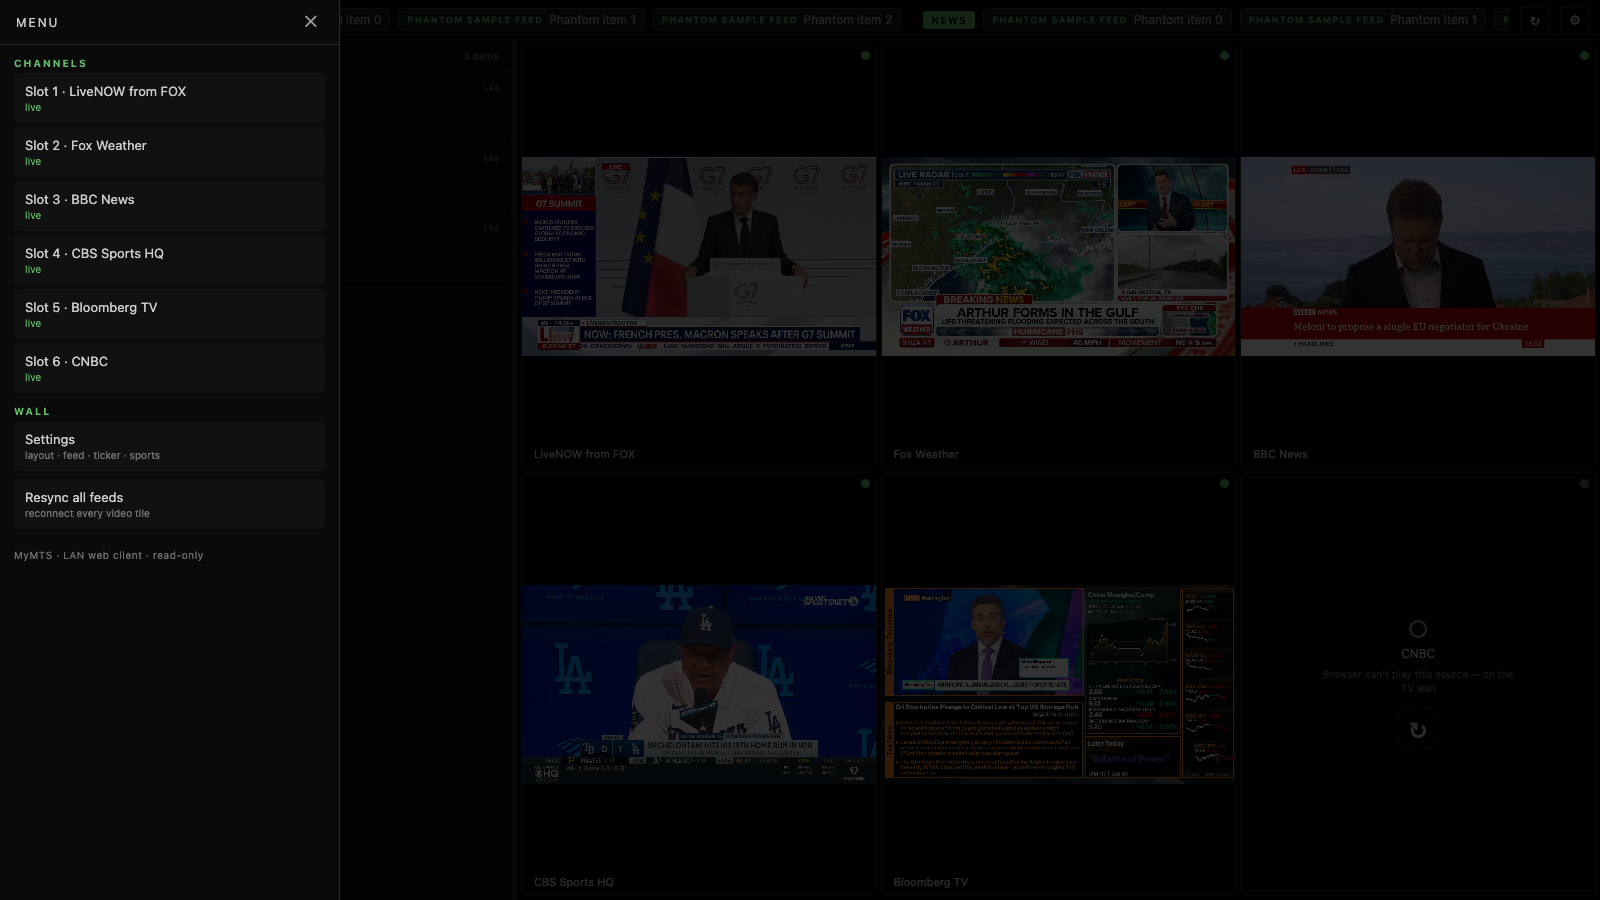
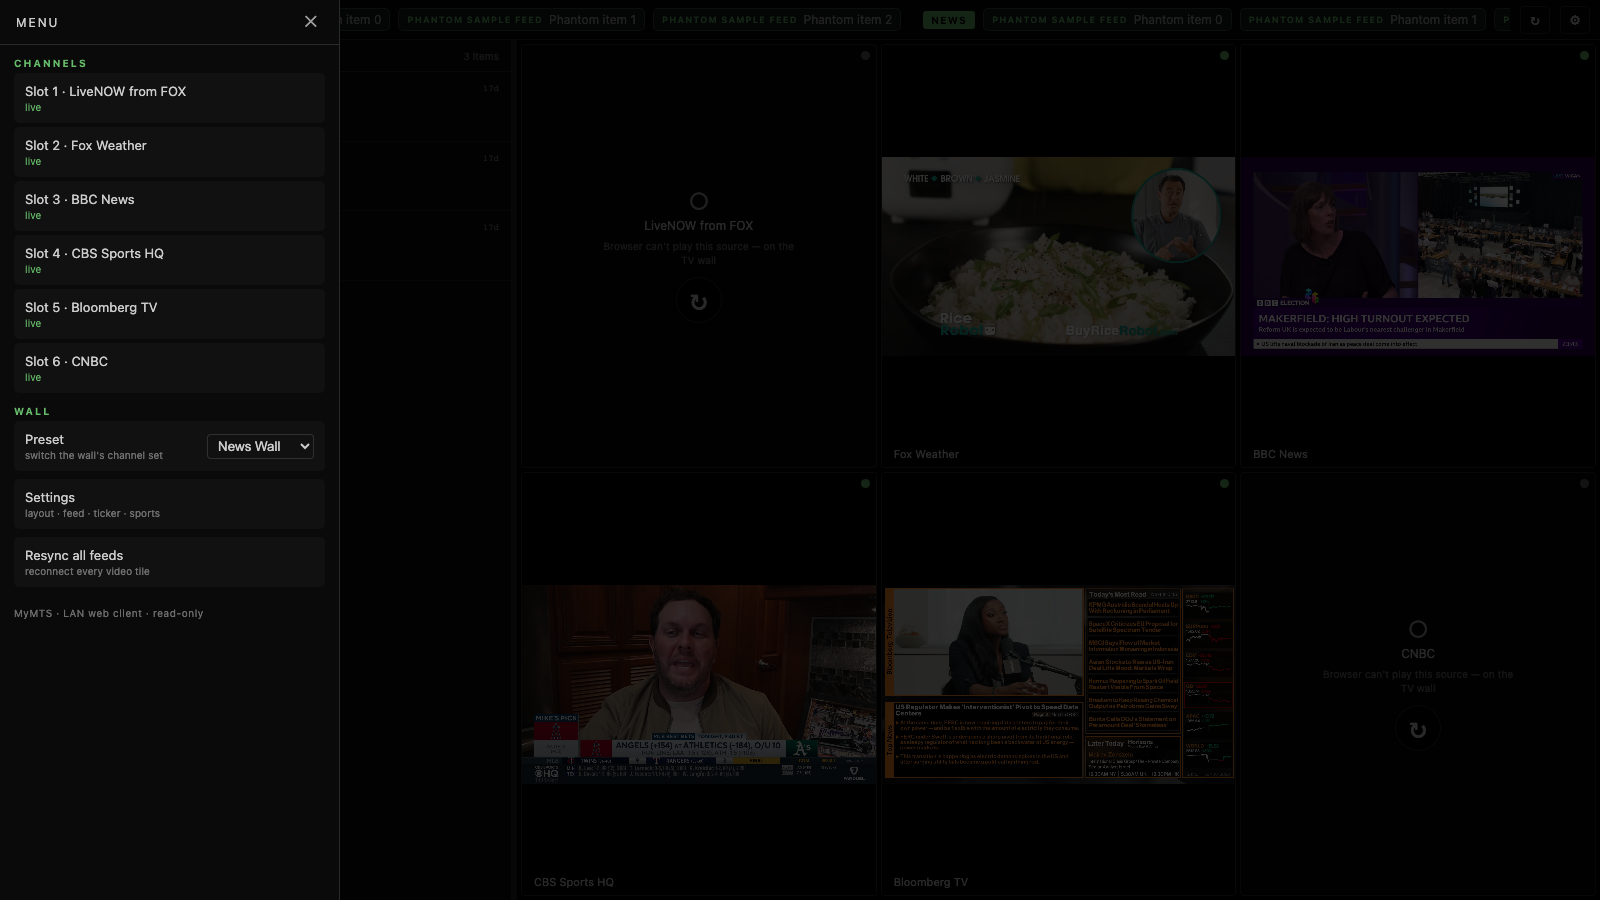
docs: professionalization close for wall presets (gallery + onboarding)
Closing professionalization suite for the presets arc — docs, screenshots,
and onboarding brought current to the shipped reality. No feature code.

- Gallery: the web side-menu `menu.png` regenerated (it gained the WALL →
  Preset selector); a new `wall-preset-nature.png` showcases a non-default
  preset applied (the grid switched to Nature's channel-set + 2×2 layout in
  one step). `capture.mjs` gains the preset-apply step; the other 9 shots
  were left untouched (no churn). docs/screenshots/README documents both.
  The 3 device hero shots aren't made stale by presets (they're live-data
  wall/ticker/in-situ shots); the native PresetPickerOverlay is represented
  by the web gallery, so nothing was faked.
- README: the side-menu blurb names the preset selector, the gallery embeds
  the new preset-applied shot, and the architecture diagram already lists
  /api/presets.
- CHANGELOG: the presets entry now notes the honest-OFFLINE-tile rendering
  for an explicitly-listed offline channel + schema pinning + on-device
  verification.
- ONBOARDING: an /api/presets demo curl and presets in "what you can play
  with".
- MAINTENANCE-CHARTER: records the decision to keep the /api/presets
  schema_version INDEPENDENT of the global-equal consistency check (it's
  additive and may bump alone; pinned in code + tested on all three layers).

docs-hygiene clean (62 docs, 0 leaks); schema-consistency green; git diff is
docs / images / onboarding / capture-tooling only (no shipped code).

diff --git a/docs/screenshots/README.md b/docs/screenshots/README.md
@@ -20,7 +20,8 @@ screenshots show exactly that.
 | `ticker-markets.png` | The markets ticker — indices / FX / gold / oil / yield / crypto, each with the honest `SAMPLE` tag (the demo poller isn't started, so every quote is sample). |
 | `ticker-sports.png` | The sports ticker — team game cards (MLB / NBA / NHL) with the ESPN-style league markers + status blocks, `sample`-tagged. |
 | `ticker-news.png` | News in the ticker (the 3rd mode) — source-labeled headline cards. |
-| `menu.png` | The **native-style side menu** (the gear opens it) — a CHANNELS list (one row per slot) + WALL actions (Settings, Resync), mirroring the TV app's MenuOverlay (the old flat WALL SETTINGS modal is gone). |
+| `menu.png` | The **native-style side menu** (the gear opens it) — a CHANNELS list (one row per slot) + WALL actions: the **Preset** selector (server-authoritative wall presets — News / Nature / Space / Chill), Settings, Resync — mirroring the TV app's MenuOverlay (the old flat WALL SETTINGS modal is gone). |
+| `wall-preset-nature.png` | A **non-default wall preset applied** — the **Nature** preset switches the whole grid to its server-defined channel-set (Explore Nature Cams · Monterey Bay Aquarium · EarthCam · earthTV) and its 2×2 layout in one step. The HLS nature cams show the honest "on the TV wall" placeholder in the demo browser; the point of the shot is the preset swap (channels + grid), not playback. |
 | `settings.png` | The settings modal (reached from the side menu) — grid rows×cols (**2×3 default**), feed width/size/recency, feed-source toggles **grouped by category**, the **captions-off** toggle, ticker speed/motion, sports-league toggles. |
 | `slot-controls.png` | The **per-slot controls** (click a tile / a menu channel row) — Channel · Audio · Reconnect · Close, the web analog of the native SlotControlsOverlay. No captions row (these streams' captions are burned-in / unremovable). |
 | `channel-picker.png` | The channel picker (opened from a slot's Channel row) — the channel lineup **sectioned by category** (Sports / US News / Global News / …) with the honest **live / on-the-TV-wall-only / offline** legend. The US News section now includes the free **government** feeds (Senate floor, live Senate committee hearings, House committees, federal agencies). |

diff --git a/MAINTENANCE-CHARTER.md b/MAINTENANCE-CHARTER.md
@@ -51,6 +51,15 @@ because something actually slipped).
 | **Fail-safe contracts exhaustively test the bad-input class** | `[RITUAL]` — checklist §5 | `load_profiles` missing `RecursionError`; truthiness-vs-`.strip()` slipping a whitespace URL past a guard |
 | **Lint (ruff)** | `[ENFORCED, advisory]` — `ci.yml`, non-blocking | known pre-existing debt; new code kept clean (NOT the same as the blocking docs-hygiene gate) |
 
+> **Note — the `/api/presets` `schema_version` is deliberately *independent* of the global-equal
+> consistency check.** `scripts/check_schema_consistency.py` asserts the *core* envelopes
+> (channels / feed / ticker / health) all share one wire version. The presets endpoint is additive
+> and may legitimately bump on its own, so coupling it into the equal-check would risk a false CI
+> failure on an intentional independent bump. It is instead pinned in lockstep across all three
+> layers in code — helper `PRESETS_SCHEMA_VERSION`, native `parsePresets` (refuses ≠ supported),
+> web `pollPresets` (ignores an unknown envelope) — and covered by tests on each side. Decision:
+> keep it independent (not added to the checker).
+
 ---
 
 ## How to grow this charter (the point)

diff --git a/CHANGELOG.md b/CHANGELOG.md
@@ -25,8 +25,11 @@ to today until the user switches.
   preset slug references a real seeded channel (no dead tiles).
 - **Native + Web**: a preset selector in the menu's WALL section; selecting one loads that preset's
   channels (replacing the tiles) + applies its grid, persisted per-device. The **`news`** default
-  uses each client's EXISTING default lineup path (untouched → no regression); non-default presets
-  fill exactly with their slugs. WallSettings / panel-fit locked levers untouched.
+  uses each client's EXISTING default lineup path (untouched → no regression); non-default (`exact`)
+  presets fill exactly with their slugs — an explicitly-listed offline channel (e.g. NASA TV in
+  Space) renders as an honest OFFLINE tile rather than vanishing. Both clients pin the presets
+  `schema_version` (refuse an unknown contract). WallSettings / panel-fit locked levers untouched.
+  Verified on-device (`.92`).
 
 ## feat(helper): per-deployment lineup override (distribution make-or-break #4 — closed) (2026-06-18)
 

diff --git a/ONBOARDING.md b/ONBOARDING.md
@@ -43,6 +43,7 @@ Verify in another shell:
 curl -fsS http://localhost:8091/health      # 200 + build info
 curl -fsS http://localhost:8091/api/feed     # preloaded mock feed items
 curl -fsS http://localhost:8091/api/channels # all 53 seeded channels (HLS + YouTube + 2 C-SPAN/.gov; incl. Space/Nature/Cameras)
+curl -fsS http://localhost:8091/api/presets  # server-authoritative wall presets (News / Nature / Space / Chill)
 ```
 You can also open the **web client** at <http://localhost:8091/app>.
 
@@ -100,7 +101,8 @@ cd helper && uv run pytest          # helper suite
 
 ## What you can play with
 - The whole wall UI, the menu (D-pad / arrow keys on the emulator), the channel
-  picker, the settings, the ticker — all on mock or real-public data.
+  picker, the **wall presets** (News / Nature / Space / Chill — switch the whole grid
+  from the menu's WALL section), the settings, the ticker — all on mock or real-public data.
 - The helper API + the static web client.
 - The full source of both components.
 

diff --git a/README.md b/README.md
@@ -127,7 +127,9 @@ ships with the next on-device release) — configurable on the TV (D-pad) and in
 (mouse), persisted per client. The TV-only panel-fit levers (fit scale / overscan / position)
 correct a physical panel and are honestly absent from the web.
 
-![The native-style side menu — a CHANNELS list + WALL actions, mirroring the TV app](docs/screenshots/web/menu.png)
+![The native-style side menu — a CHANNELS list + WALL actions (incl. the wall Preset selector), mirroring the TV app](docs/screenshots/web/menu.png)
+
+![The Nature wall preset applied — the whole grid switched to its server-defined channel-set + 2×2 layout in one step](docs/screenshots/web/wall-preset-nature.png)
 
 ![The settings modal — 2×3 grid default, category-grouped feed sources, captions off by default](docs/screenshots/web/settings.png)
 
